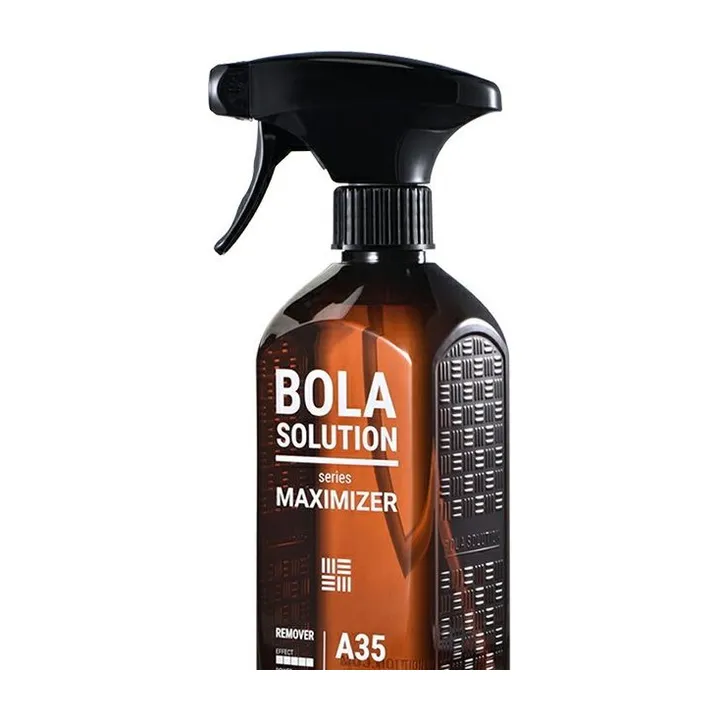
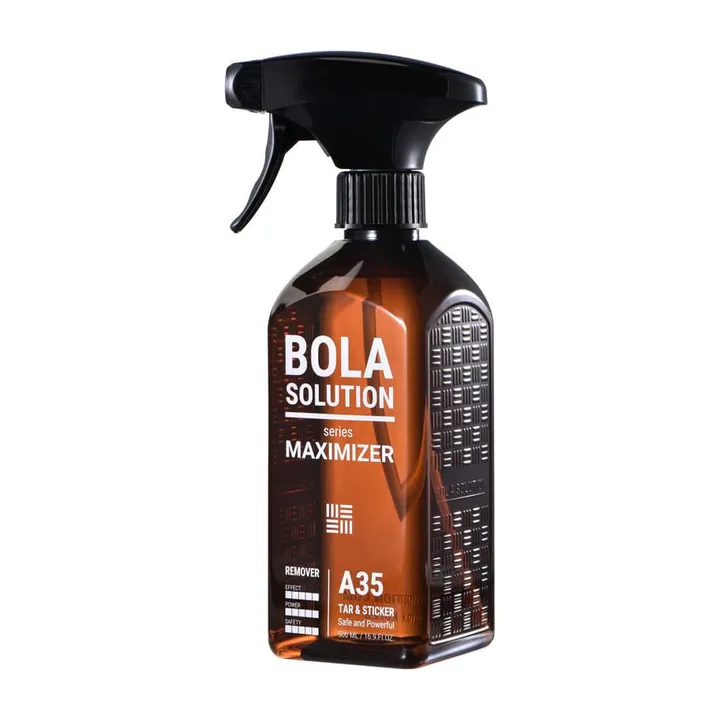
Replace cropped BolaSolution photos and add A33, A55, P47 PRO images
Full bottle shots for A35, T47, W35 and G37+ come from the brand's own
DOXX MALL and the Rakuten listing; A33, A55 and P47 PRO now show their
4 L jugs with the label wording noted.

Changed region(s): [[0.275, 0.0611, 0.7333, 0.9472], [0.4278, 0.0611, 0.55, 0.0917]]

diff --git a/src/data/bola.ts b/src/data/bola.ts
@@ -1,7 +1,7 @@
 // BolaSolution（韩国 DOXX co.）产品与流程数据。2026-10 整理翻译。
 // 来源：日本正规代理 Amazing Green 的乐天店产品页（用法、适用部位、流程图）为主；
 // 日本没有销售的产品（A33、E55、A55、i35、TAN、P47 PRO、PF1、G58）按韩国环境部「초록누리」安全确认申报资料（用法、액성、主要成分）整理，
-// G58、i35、E55 另参考韩国经销商엔공구（n09.co.kr）的商品页和瓶身标签。
+// G58、i35、E55 另参考韩国经销商엔공구（n09.co.kr）的商品页和瓶身标签；A33、A55、P47 PRO 的图片和桶身标签来自品牌官方商城 DOXX MALL（doxxmall.co.kr）。
 // 官网 bolasolution.com 的专业镀膜（EVO、STD、MAX、DEG、MOD、YPR、Brilliant）只有宣传规格、没有公开施工步骤，且未见于韩国申报，暂不收录。
 // 比例写法：1:10 = 1 份原液 + 10 份水；日本页面写「N 倍」的按 1:N 换算
 import type { Flow, Product } from './types';
@@ -10,13 +10,14 @@ const RAKUTEN = 'https://item.rakuten.co.jp/amazinggreen/';
 const ECOLIFE = 'https://ecolife.mcee.go.kr/ecolife/chemiProd/safeDclrProd?pMENU_NO=596';
 const BOLA = 'https://bolasolution.com/default/';
 const N09 = 'https://n09.co.kr/product/detail.html?product_no=';
+const DOXX = 'https://doxxmall.co.kr/product/detail.html?product_no=';
 
 export const products: Product[] = [
 // ───────────────────────── 预洗 ─────────────────────────
-{id:'B-a33',b:'B',c:'pre',n:'A33',t:'中性泡沫预洗',f:'—',m:'车身外部',
+{id:'B-a33',b:'B',c:'pre',n:'A33',t:'中性泡沫预洗',f:'4 L',m:'车身外部',
  d:[['泡沫枪','1:25 – 1:30','PA壶']],
  s:['在泡沫枪里按最稀 1:25–1:30 兑水。','喷满车身，不要让泡沫干掉。','3–5 分钟内用高压水冲洗干净。'],
- x:['日本没有销售，用法和酸碱性来自韩国申报（申报号 HB22-01-0396）：中性。','主要成分：烷基糖苷、氧化胺、非离子表面活性剂。'],u:ECOLIFE},
+ x:['官方商城的 4 L 桶身标签写「A33 · LUXURIOUS FOAM / FOAM SHAMPOO：稀释 1:20」。','日本没有销售，用法和酸碱性来自韩国申报（申报号 HB22-01-0396）：中性。','主要成分：烷基糖苷、氧化胺、非离子表面活性剂。'],u:DOXX+'1026'},
 
 // ───────────────────────── 洗车香波 ─────────────────────────
 {id:'B-a43',b:'B',c:'wash',n:'A43',t:'镀膜车专用中性香波（可调成脱脂洗车）',f:'500 ml',m:'车漆 · 玻璃 · 天窗 · 大灯 · 轮毂 · 轮胎',
@@ -29,10 +30,10 @@ export const products: Product[] = [
  s:['桶洗：在水桶里按 1:1000 稀释，打出泡沫，用洗车手套或海绵轻柔清洗，再冲净泡沫和污垢。','泡沫洗：在泡沫枪里按最浓 1:10 兑水喷涂，不要让它干掉，3–5 分钟内用高压水冲净。'],
  x:['日本没有销售，用法和酸碱性来自韩国申报（申报号 HB24-01-0322）：酸性；韩国经销商标注为 pH 3，主打换用它洗车就能去掉水垢。','主要成分：乙醇酸、葡萄糖酸钠、表面活性剂、EDTA。'],u:N09+'48348'},
 
-{id:'B-a55',b:'B',c:'wash',n:'A55',t:'酸性车身外部清洁剂',f:'—',m:'车身外部',
+{id:'B-a55',b:'B',c:'wash',n:'A55',t:'酸性车身外部清洁剂',f:'4 L',m:'车身外部',
  d:[['车身外部','1:30','喷雾壶']],
  s:['用前摇匀。','车身外部按 1:30 稀释（50 ml 原液兑 1500 ml 水）。','喷在需要清洁的部位，污垢重的地方用洗车手套或海绵轻轻擦洗。','干掉前用高压水冲洗干净。'],
- x:['日本没有销售，用法和酸碱性来自韩国申报（与 E55 同一申报号 HB24-01-0322）：酸性。','主要成分：乙醇酸、葡萄糖酸钠、表面活性剂。'],u:ECOLIFE},
+ x:['官方商城的 4 L 桶身标签写「A55 · PRE-WASH / PH3 POWER CLEAN：稀释 1:10」。','日本没有销售，用法和酸碱性来自韩国申报（与 E55 同一申报号 HB24-01-0322）：酸性。','主要成分：乙醇酸、葡萄糖酸钠、表面活性剂。'],u:DOXX+'1025'},
 
 // ───────────────────────── 轮毂轮胎 ─────────────────────────
 {id:'B-w55',b:'B',c:'wheel',n:'W55',t:'轮毂 + 轮胎清洁剂（去轮胎发黄发棕）',f:'500 ml · 1000 ml',m:'轮毂 · 轮胎',
@@ -109,10 +110,10 @@ export const products: Product[] = [
  s:['用 A43 洗车，需要时先用 P58 做前处理；用前摇匀。','车身冷却、仍挂满水珠时直接喷，大面积薄而均匀；不够湿就再淋水。','不要用布涂抹，趁没干立刻用强水流和大量清水冲掉；按板块「喷 → 冲」逐块进行。','冲完后轻轻擦掉残留水珠，不要让自来水自然晾干。'],
  x:['用量参考：引擎盖 6–8 下，车顶 8–10 下，每扇车门 4–6 下。','不支持干车施工，也不要用湿布在干车上施工。','车内玻璃、内饰不能用；不要直接喷刹车盘和刹车片；排气管等高温部位不要用。','耐久最长约 3 个月，官方建议每洗 2–3 次或每 2–3 个月施工一次。','出现水痕时用拧干的湿布擦，擦不掉用 P58。','含挥发性硅油 D5 和含氢硅油（韩国申报 HB22-07-0154）。'],u:RAKUTEN+'bola-078/'},
 
-{id:'B-p47-pro',b:'B',c:'seal',n:'P47 PRO',t:'喷涂即冲镀膜（浓缩装）',f:'—',m:'车身外部',
+{id:'B-p47-pro',b:'B',c:'seal',n:'P47 PRO',t:'喷涂即冲镀膜（浓缩装）',f:'4 L',m:'车身外部',
  d:[['湿车喷涂即冲','1:30 – 1:50','喷雾壶']],
  s:['用前摇匀。','浓缩产品，一定要按比例兑水装进加压喷壶或普通喷壶：500 ml 喷壶约 10–16 ml 原液 + 484–490 ml 水。','洗车后趁车身还湿，均匀喷满全车。','在干掉前用高压水仔细冲净。','最后用擦干毛巾把水完全擦干。'],
- x:['日本没有销售，比例和用法来自韩国申报（与 P47 同一申报号 HB22-07-0154）。'],u:ECOLIFE},
+ x:['官方商城的 4 L 桶身标签写「P47 · WET SPRAY COAT / PRO ONLY：For Dilution」。','日本没有销售，比例和用法来自韩国申报（与 P47 同一申报号 HB22-07-0154）。'],u:DOXX+'1012'},
 
 {id:'B-pf1',b:'B',c:'seal',n:'PF1',t:'固体蜡（褐煤蜡 + 蜂蜡 + 巴西棕榈蜡）',f:'—',m:'车身外部',
  d:[['干车上蜡','即用','—']],

diff --git a/src/components/hero.tsx b/src/components/hero.tsx
@@ -38,7 +38,7 @@ export function Footer() {
         </p>
         <p>
           数据来源：labocosmetica.com、maniacline.com、mafra.it、koch-chemie.com、carpro.global、gyeon.co 与 bolasolution.com 官方产品页、技术资料和施工手册，BolaSolution 日本正规代理（乐天 Amazing Green）产品页与韩国环境部申报资料，2026 年 10
-          月整理翻译。产品图取自各品牌官网（BolaSolution 取自日本正规代理产品页）并保存在本站，官网未提供图片的产品以名称卡片代替。官网未给出比例的产品按原液或即用处理并已注明；镀膜类以包装说明书为准。施工前请先在不显眼处测试。
+          月整理翻译。产品图取自各品牌官网（BolaSolution 取自日本正规代理产品页和韩国官方商城 DOXX MALL）并保存在本站，官网未提供图片的产品以名称卡片代替。官网未给出比例的产品按原液或即用处理并已注明；镀膜类以包装说明书为准。施工前请先在不显眼处测试。
         </p>
       </div>
     </footer>

diff --git a/src/data/index.ts b/src/data/index.ts
@@ -38,7 +38,7 @@ export const NO_IMAGE = new Set([
   'K-ceramic-neo-c003', 'K-ceramic-glass-cg001', 'K-plast-shield', 'K-perfectfinish-sealant', 'K-wetgloss',
   'K-quick-shine-plus', 'K-allround-quick-shine', 'K-nanomagic-plast-care', 'K-speed-glass-cleaner',
   'K-multi-interior-cleaner', 'K-leather-star', 'K-protect-leather-care',
-  'B-a33', 'B-a55', 'B-p47-pro', 'B-pf1',
+  'B-pf1',
 ]);
 
 /** 产品图全部是 public/img 下的本地 webp（720×720 白底） */

diff --git a/public/sw.js b/public/sw.js
@@ -2,7 +2,7 @@
 // - 页面（HTML）和 RSC 数据：先联网，失败时用缓存（所以打开过的页面没网也能看）
 // - 带哈希的静态文件、字体、产品图：先读缓存
 // - 页面可以发消息 { type: 'cache-pages', urls } 让我们提前缓存指定页面（常用产品的详情页）
-const VERSION = 'v4';
+const VERSION = 'v5';
 const PAGES = `pages-${VERSION}`;
 const ASSETS = `assets-${VERSION}`;
 
